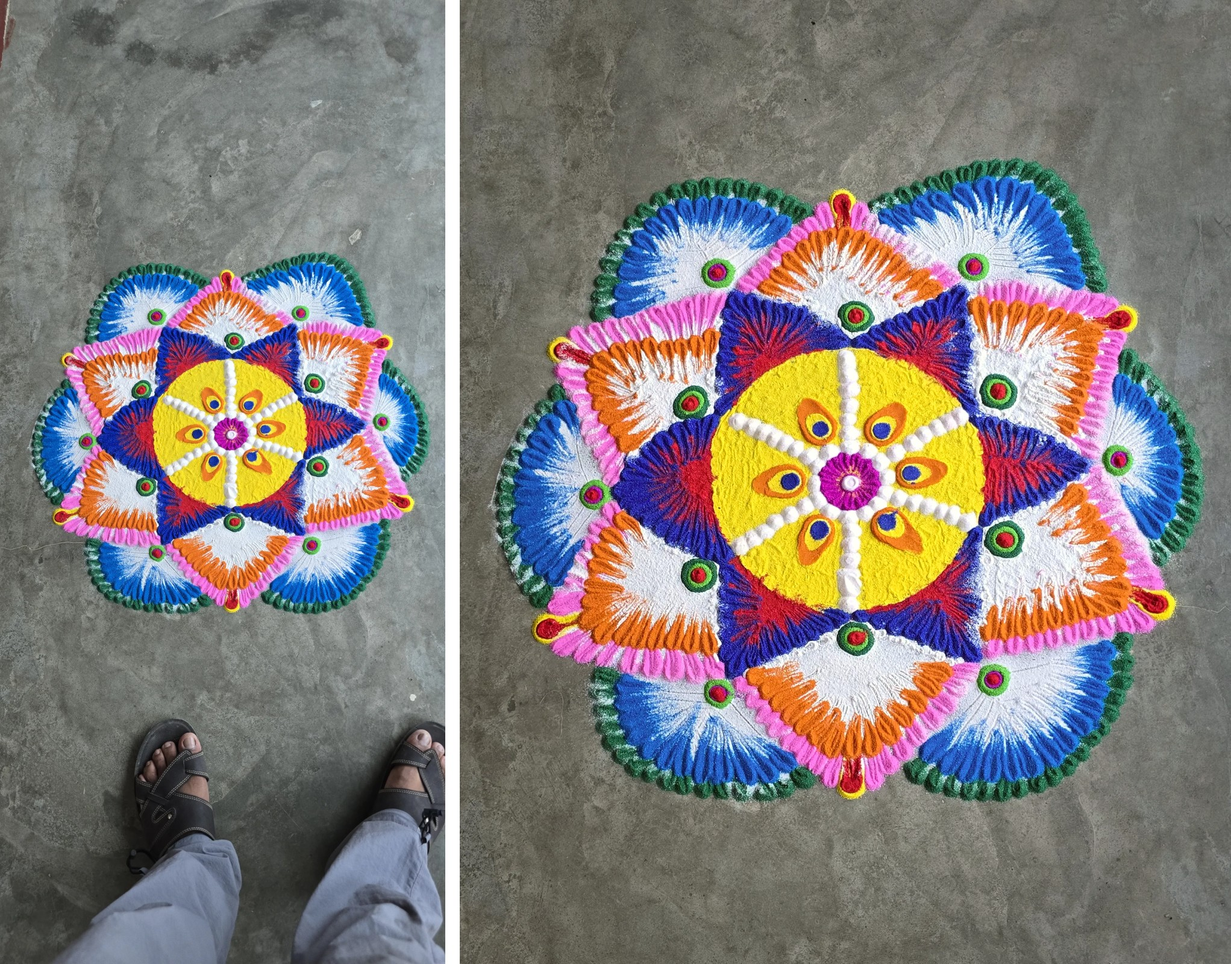
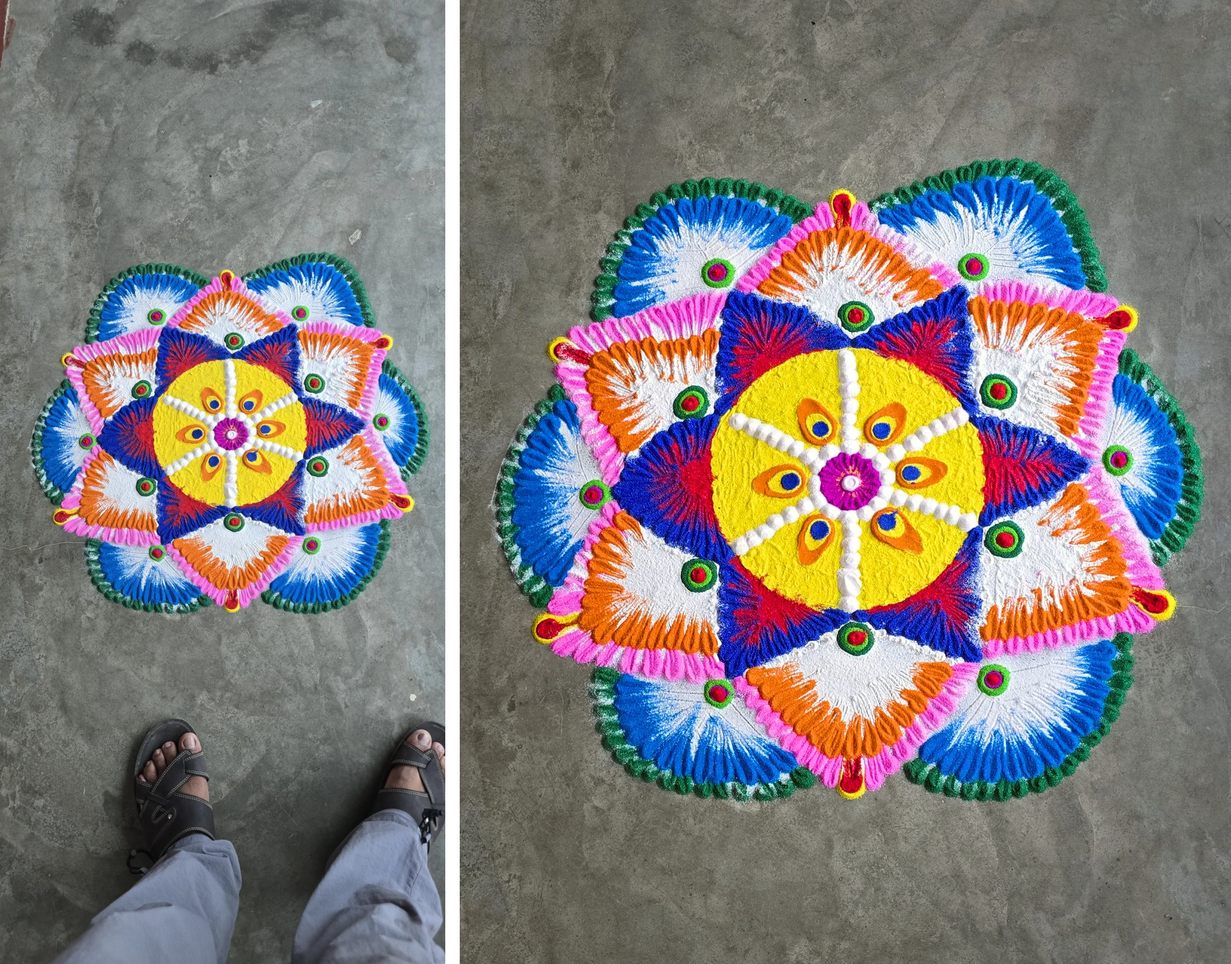
Give the rangoli richer colour
Every colour of the rangoli is made a fifth deeper and the softer ones up
to twice that, each pixel only as far as it stays inside sRGB (checked in
linear RGB by halving), so the saturated yellows and blues keep their
grain. The white powder is left white.

Claude-Session: https://claude.ai/code/session_01L3hZmj9oe8Yfp8ZvHXW3mm

Changed region(s): [[0.4009, 0.1562, 0.9868, 0.8438]]

diff --git a/media/rangoli/enhance.py b/media/rangoli/enhance.py
@@ -13,10 +13,12 @@ rangoli itself is not redrawn: every grain of powder is the photo's own.
   3. Colour. The photo was a little cool: the white powder was bluish and
      the concrete greenish. A small warm shift makes the white powder clean
      and the floor a neutral grey.
-  4. Rangoli. A little more colour depth, more in the softer colours than
-     the strong ones, so nothing turns neon. A little local contrast, so the
-     combed ridges and the grain of the powder stand out. The whites are
-     lifted a touch.
+  4. Rangoli. Richer colour: every colour a fifth deeper, the softer ones
+     more, and each pixel only as far as it stays a colour a screen can
+     show, so the strong yellows and blues keep their grain instead of
+     turning into flat blobs. The white powder is left white. A little
+     local contrast, so the combed ridges and the grain of the powder stand
+     out. The whites are lifted a touch.
   5. Light. A soft vignette darkens the floor towards the corners, so the
      eye goes to the rangoli. A light sharpening on lightness alone.
 
@@ -41,7 +43,8 @@ SOURCE = HERE / "photo.webp"
 CROP = (48, 677, 1848, 2927)       # x0, y0, x1, y1: 4:5, centred on the rangoli, above the sandals
 WARM = (1.5, 3.5)                  # added to Lab a and b
 EVEN = 0.5                         # how much of the floor's blotchiness is evened out
-VIBRANCE = 0.2
+SATURATION = 0.2                   # every colour of the rangoli this much deeper
+VIBRANCE = 0.4                     # and the softer colours up to this much more
 CLARITY = 0.35
 VIGNETTE = 0.2
 
@@ -86,6 +89,32 @@ def clean_floor(bgr, art, lama):
     return lama.fill(bgr, flecks) if flecks.any() else bgr
 
 
+# Linear sRGB from CIE XYZ (D65), to tell which Lab colours a screen can show.
+XYZ_TO_RGB = np.array([[3.2404542, -1.5371385, -0.4985314],
+                       [-0.9692660, 1.8760108, 0.0415560],
+                       [0.0556434, -0.2040259, 1.0572252]], np.float32)
+
+
+def in_gamut(L, A, B, eps=0.002):
+    fy = (L + 16) / 116
+    finv = lambda t: np.where(t > 6 / 29, t ** 3, 3 * (6 / 29) ** 2 * (t - 4 / 29))
+    xyz = np.stack([0.950456 * finv(fy + A / 500), finv(fy), 1.088754 * finv(fy - B / 200)], -1)
+    rgb = xyz @ XYZ_TO_RGB.T
+    return np.all((rgb >= -eps) & (rgb <= 1 + eps), -1)
+
+
+def richer(L, A, B, k):
+    """Chroma scaled by k, each pixel only as far as it stays inside sRGB
+    (found by halving), so saturated powder keeps its grain."""
+    lo, hi = np.ones_like(k), k.copy()
+    for _ in range(7):
+        mid = (lo + hi) / 2
+        good = in_gamut(L, A * mid, B * mid)
+        lo, hi = np.where(good, mid, lo), np.where(good, hi, mid)
+    s = np.where(in_gamut(L, A * k, B * k), k, lo)
+    return A * s, B * s
+
+
 def enhance(bgr, art):
     L, A, B = to_lab(bgr)
     h, w = L.shape
@@ -97,13 +126,14 @@ def enhance(bgr, art):
     f = (~art).astype(np.float32)
     ill = cv2.GaussianBlur(L * f, (0, 0), 60) / np.maximum(cv2.GaussianBlur(f, (0, 0), 60), 1e-3)
     L = L - EVEN * floor * (ill - np.median(L[~art]))
-    # Rangoli: colour depth, more in softer colours; local contrast; whites lifted.
-    C = np.hypot(A, B)
-    k = 1 + VIBRANCE * soft_art * (1 - np.clip(C / 70, 0, 1))
-    A, B = A * k, B * k
+    # Rangoli: local contrast; whites lifted; richer colour, the white powder kept white.
     base = cv2.bilateralFilter(L.astype(np.float32), 0, 8, 5)
     L = L + CLARITY * soft_art * (L - base)
     L = L + soft_art * 0.25 * np.clip(L - 75, 0, None) * (1 - np.clip((L - 75) / 30, 0, 1))
+    C = np.hypot(A, B)
+    coloured = np.clip((C - 4) / 10, 0, 1)
+    k = 1 + soft_art * coloured * (SATURATION + VIBRANCE * (1 - np.clip(C / 80, 0, 1)))
+    A, B = richer(L, A, B, k)
     # Light: a soft vignette on the floor, round the rangoli's centre.
     ys, xs = np.nonzero(art)
     cy, cx = ys.mean(), xs.mean()

diff --git a/media/rangoli/README.md b/media/rangoli/README.md
@@ -28,8 +28,13 @@ How it is made:
    the concrete greenish. A small warm shift makes the white powder clean
    and the floor a natural grey.
 4. **Rangoli.**
-   - A little more colour depth. The softer colours get more of it than the
-     strong ones, so nothing turns neon.
+   - Richer colour. Every colour is made a fifth deeper, and the softer ones
+     up to twice that.
+   - Each pixel is taken only as far as it stays a colour a screen can show
+     (checked in linear sRGB, by halving), so the strong yellows and blues
+     keep their grain instead of turning into flat blobs.
+   - The white powder is left white, so it picks up no tint from the colours
+     beside it.
    - A little local contrast, so the combed ridges and the grain of the
      powder stand out.
    - The whites are lifted a touch.
@@ -38,7 +43,7 @@ How it is made:
    alone.
 
 The strengths are set at the top of `enhance.py`: `WARM`, `EVEN`,
-`VIBRANCE`, `CLARITY` and `VIGNETTE`. `CROP` sets the frame.
+`SATURATION`, `VIBRANCE`, `CLARITY` and `VIGNETTE`. `CROP` sets the frame.
 
 ```sh
 pip install numpy opencv-python-headless onnxruntime
